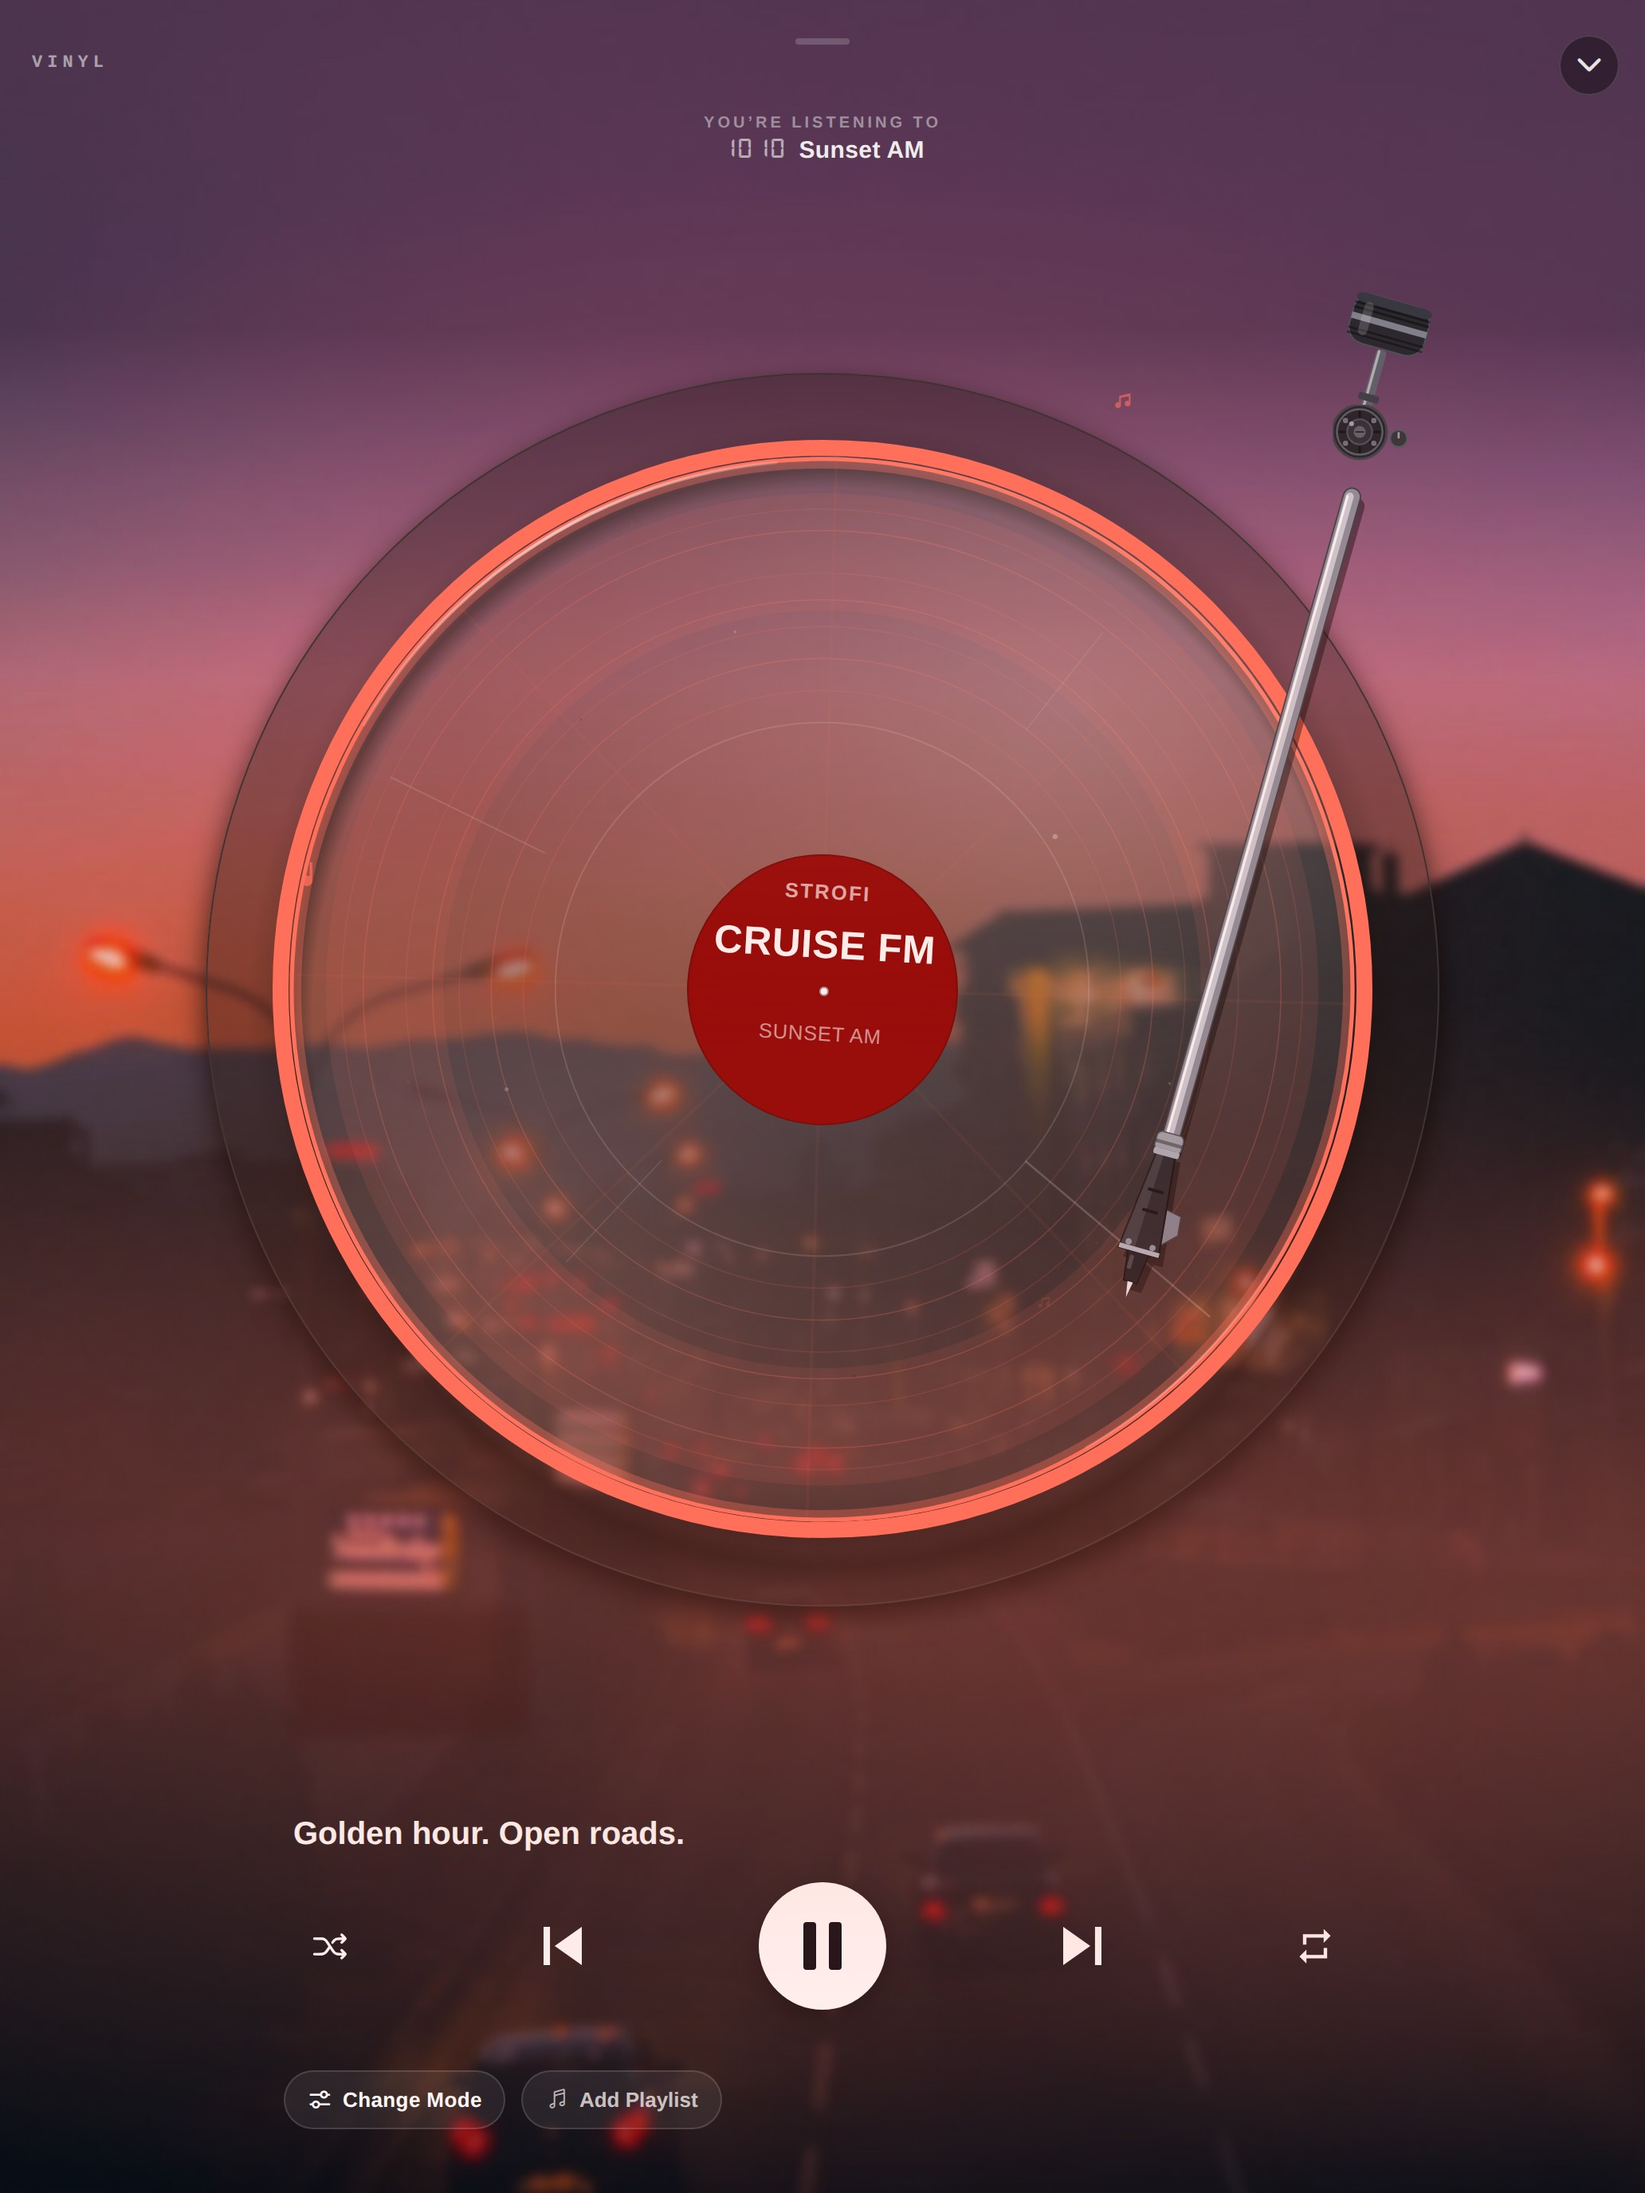
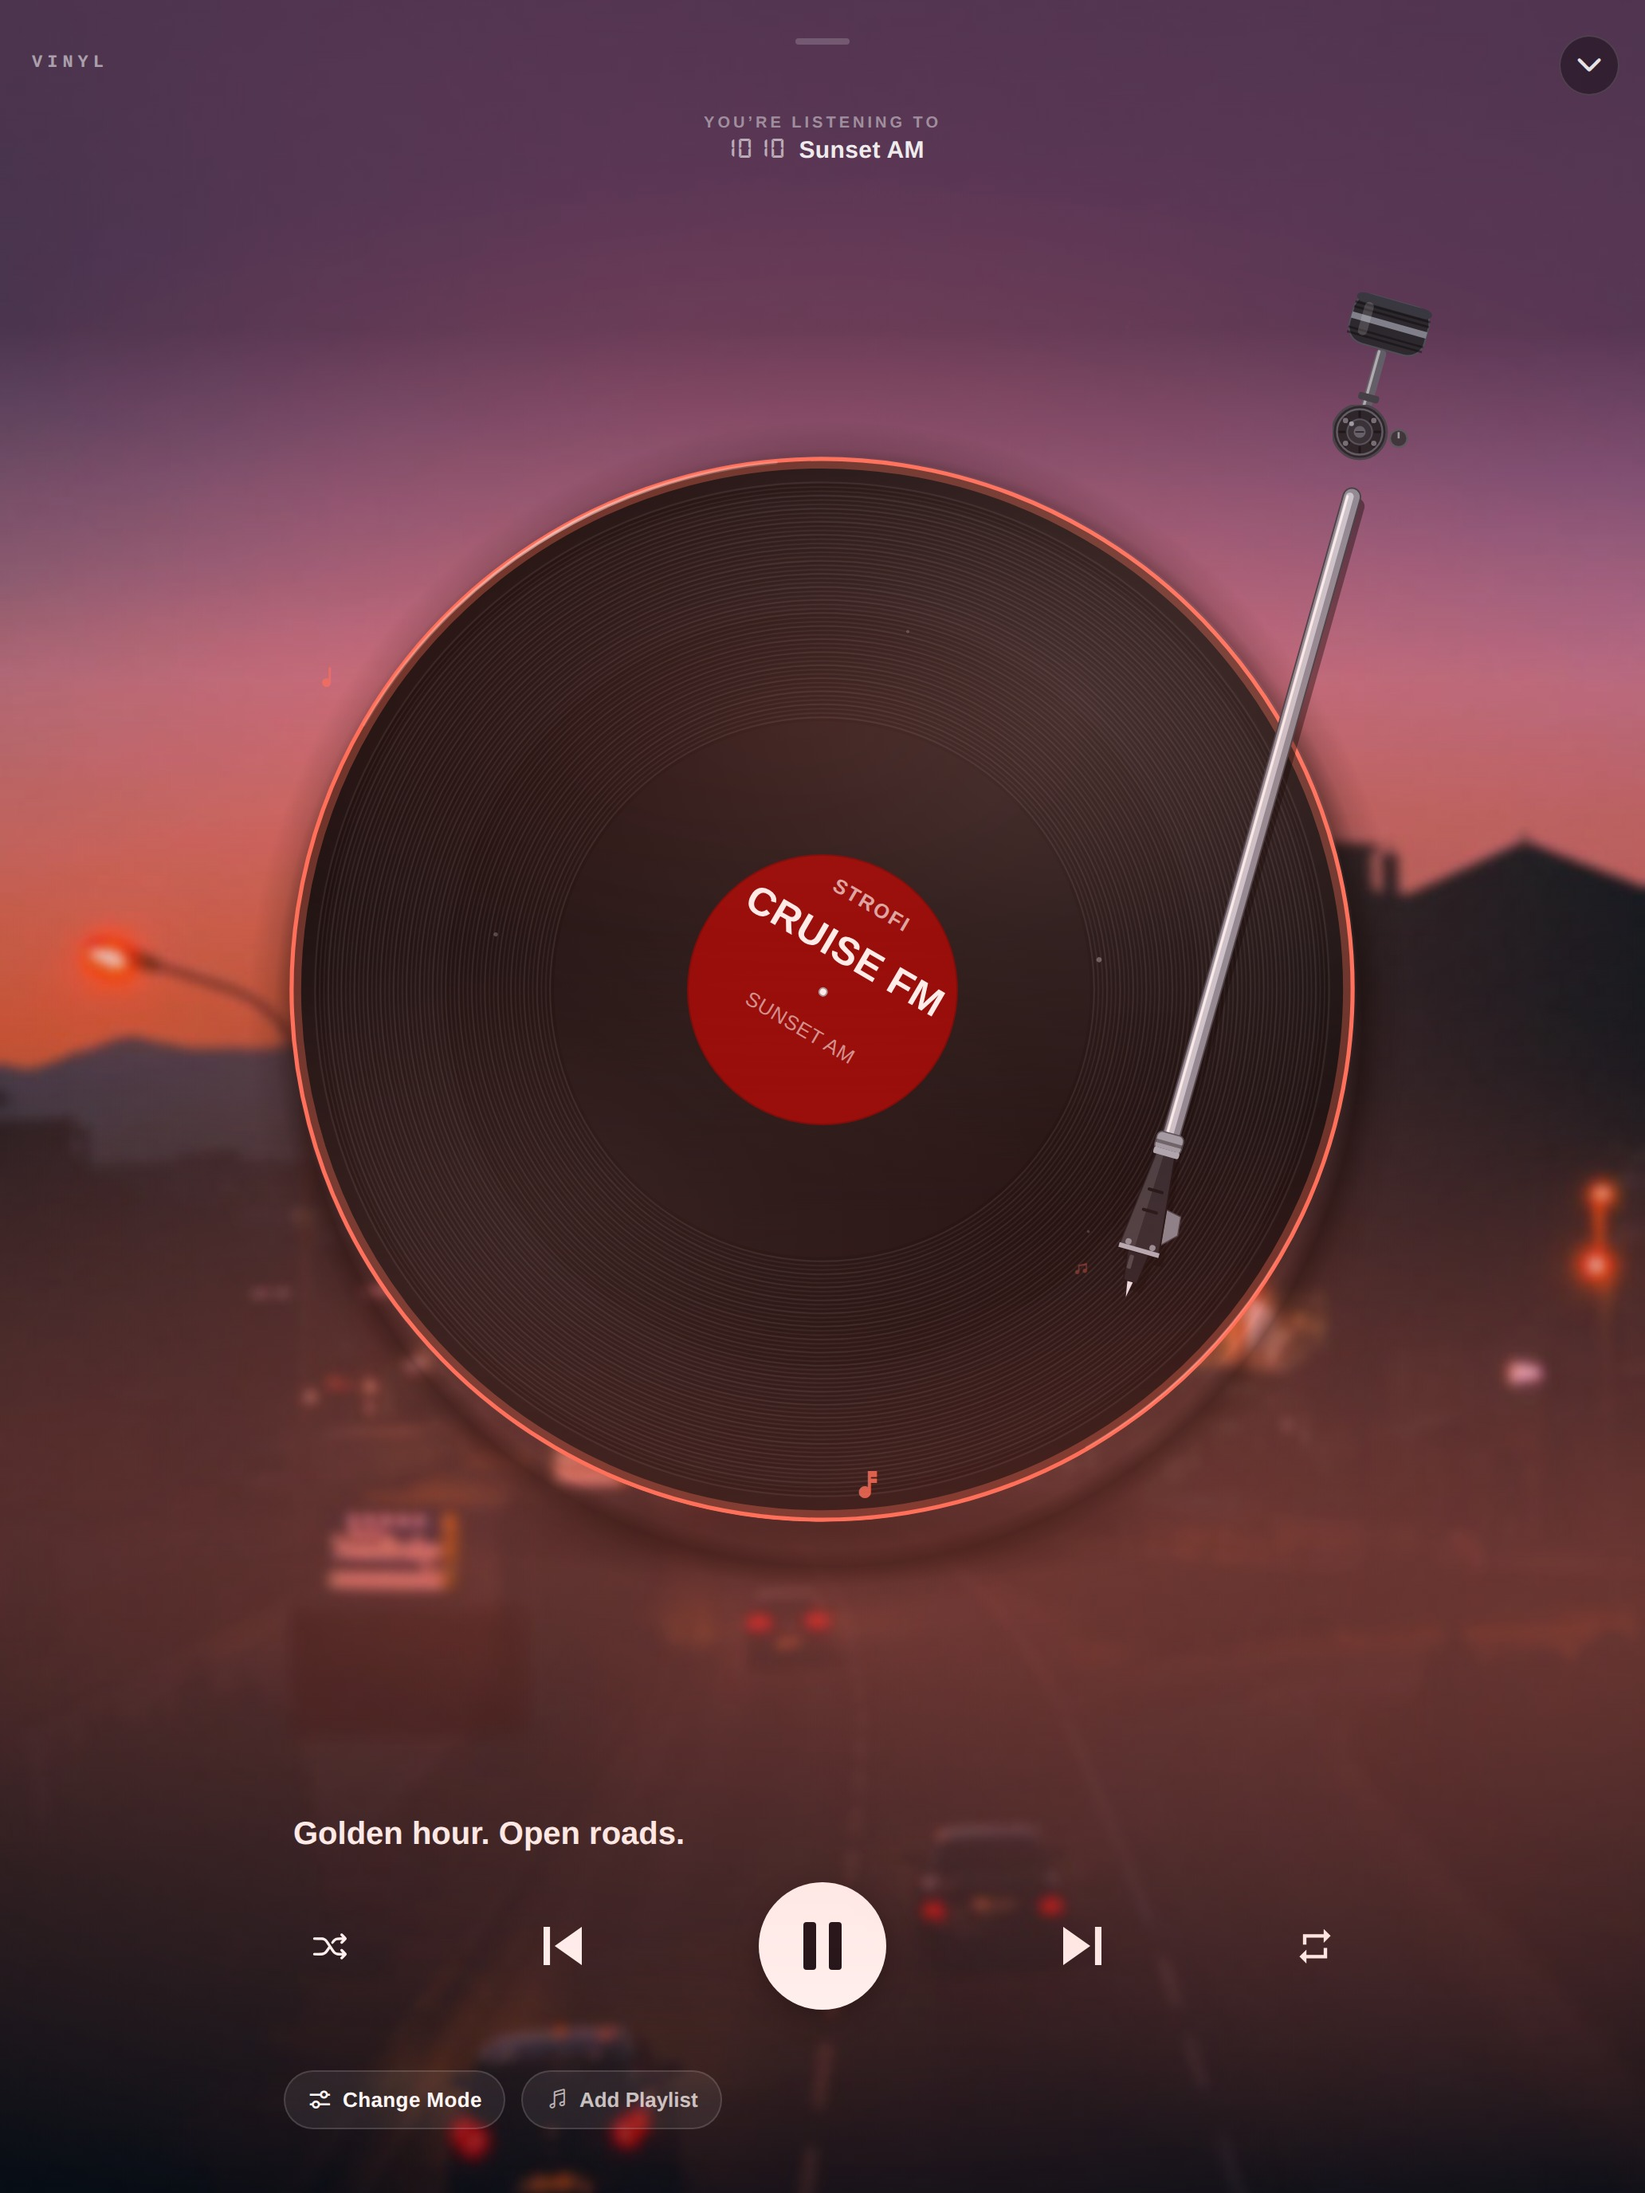
The real record is what the app opens with
Owner, 13.09: "yes make the realistic vinyl the default."

Classic Vinyl shipped OFF on 25.08 so nobody's deck changed under them, and a
round of polish against MD Vinyl settled which of the two is worth showing a
stranger. So it is the default now, and the neon layer is a tap away rather
than the thing you meet first.

AN UNSET VALUE AND AN EXPLICIT "no" ARE NOT THE SAME THING, and reading the
setting as `=== 'true'` made them identical. Flipping the default is the easy
half; the half that goes wrong is the people who already answered — read that
way, everyone who had deliberately chosen the neon look would have been
overruled, silently, with nothing to report. The test is now "anything but an
explicit false", and the switch has always written 'true'/'false' explicitly,
so a real answer is always distinguishable from never having been asked.

MotionContext's initial state moves with it: the first render happens before
storage answers, so leaving it false showed one frame of the neon record to
everyone opening the deck and then swapped it.

The settings row is read the other way round now — the question it answers is
"how do I get the glow back" — so the sub-line says that instead of describing
a state you are already in.

scripts/test-vinyl-default.mjs pins both halves against the shipped module.
PROVEN TO FAIL FIRST: with the old `=== 'true'` restored it fails on exactly
the two cases that matter (never asked, and a stray value), and goes clean on
restore.
[…]

Changed region(s): [[0.093, 0.1562, 0.8992, 0.75]]

diff --git a/src/utils/motionSettings.ts b/src/utils/motionSettings.ts
@@ -135,16 +135,30 @@ const VINYL_CLASSIC_KEY = 'cruise_vinyl_classic';
  * nearly disappears on a pale station (Mountain Pass over a daylit mountain),
  * while a black one is unmistakably a record on every station.
  *
- * Default OFF, so nobody's deck changes unless they choose it. THE RIM AND THE
- * TONEARM KEEP THE STATION'S COLOUR — that is what stops a black record
- * becoming a generic one, and it is the whole reason this reads as a look
+ * DEFAULT ON SINCE 13.09 (owner: "yes make the realistic vinyl the default").
+ * It shipped off so nobody's deck changed under them, and a round of polish
+ * against MD Vinyl settled which of the two is the one to show a stranger —
+ * bigger record, grooves that hold their pitch at any size, and a pool of warm
+ * light for it to sit in. The neon layer is still a tap away for anyone who
+ * wants it; it is simply no longer what the app opens with.
+ *
+ * AN UNSET VALUE AND AN EXPLICIT "no" ARE NOT THE SAME THING, and reading this
+ * as `=== 'true'` made them identical. Someone who deliberately turned Classic
+ * OFF has said something, and flipping the default must not overrule them —
+ * so the test is now "anything but an explicit false". Never seen the toggle:
+ * Classic. Turned it on: Classic. Turned it off: the neon look, still.
+ *
+ * THE RIM AND THE TONEARM KEEP THE STATION'S COLOUR — that is what stops a
+ * black record becoming a generic one, and it is the whole reason this reads
+ * as a look
  * rather than a loss.
  */
 export async function getVinylClassic(): Promise<boolean> {
   try {
-    return (await AsyncStorage.getItem(VINYL_CLASSIC_KEY)) === 'true';
+    return (await AsyncStorage.getItem(VINYL_CLASSIC_KEY)) !== 'false';
   } catch {
-    return false;
+    // Storage unreadable: the default, not the opposite of it.
+    return true;
   }
 }
 

diff --git a/src/app/(tabs)/profile.tsx b/src/app/(tabs)/profile.tsx
@@ -551,16 +551,18 @@ export default function ProfileScreen() {
           )}
 
           {/* Classic Vinyl — the turntable without its neon layer. A listener
-              asked for the plain thing (Ethan, 23.08); default OFF, so nobody's
-              deck changes unless they choose it. Deliberately does NOT touch
-              the haze or the fireflies — those are the room, and the two
-              Atmosphere rows above already own them. */}
+              asked for the plain thing (Ethan, 23.08) and it is the DEFAULT
+              since 13.09, so this row is now read the other way round: the
+              question it answers is "how do I get the glow back". The sub-line
+              says so rather than describing a state you are already in.
+              Deliberately does NOT touch the haze or the fireflies — those are
+              the room, and the two Atmosphere rows above already own them. */}
           <View style={[styles.settingsRow, styles.settingsBorder]}>
             <View style={styles.platformRowLeft}>
               <IconChip icon="record-player" size={34} />
               <View style={styles.settingsTextBlock}>
                 <Text style={styles.settingsLabel}>Classic Vinyl</Text>
-                <Text style={styles.dataSaverSub}>Plain black vinyl · no glow or sparkles</Text>
+                <Text style={styles.dataSaverSub}>A real black pressing · turn off for the glowing ring and sparkles</Text>
               </View>
             </View>
             <Switch

diff --git a/src/context/MotionContext.tsx b/src/context/MotionContext.tsx
@@ -29,7 +29,7 @@ const Ctx = createContext<MotionCtx>({
   atmosphere: true, setAtmosphere: () => {},
   softAtmosphere: true, setSoftAtmosphere: () => {},
   daylight: false, setDaylight: () => {},
-  vinylClassic: false, setVinylClassic: () => {},
+  vinylClassic: true, setVinylClassic: () => {},
 });
 
 export function MotionProvider({ children }: { children: ReactNode }) {
@@ -38,7 +38,10 @@ export function MotionProvider({ children }: { children: ReactNode }) {
   const [atmosphere, setAT] = useState(true);
   const [softAtmosphere, setSA] = useState(true);
   const [daylight, setDL] = useState(false);
-  const [vinylClassic, setVC] = useState(false);
+  // TRUE, matching getVinylClassic's default. The first render happens before
+  // storage answers, so starting false would show one frame of the neon record
+  // to everyone opening the Vinyl deck and then swap it.
+  const [vinylClassic, setVC] = useState(true);
 
   useEffect(() => {
     getDataSaver().then(setDS);
